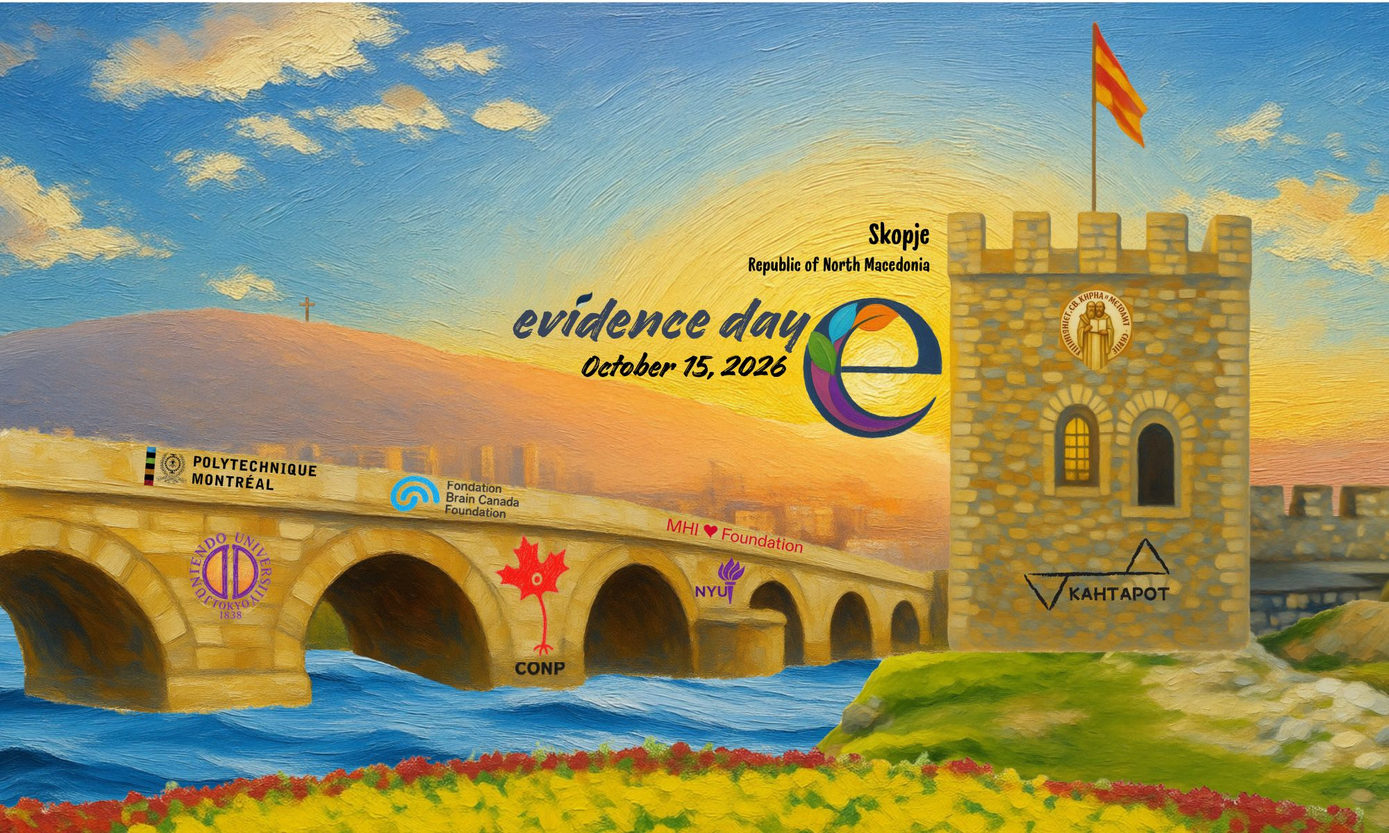
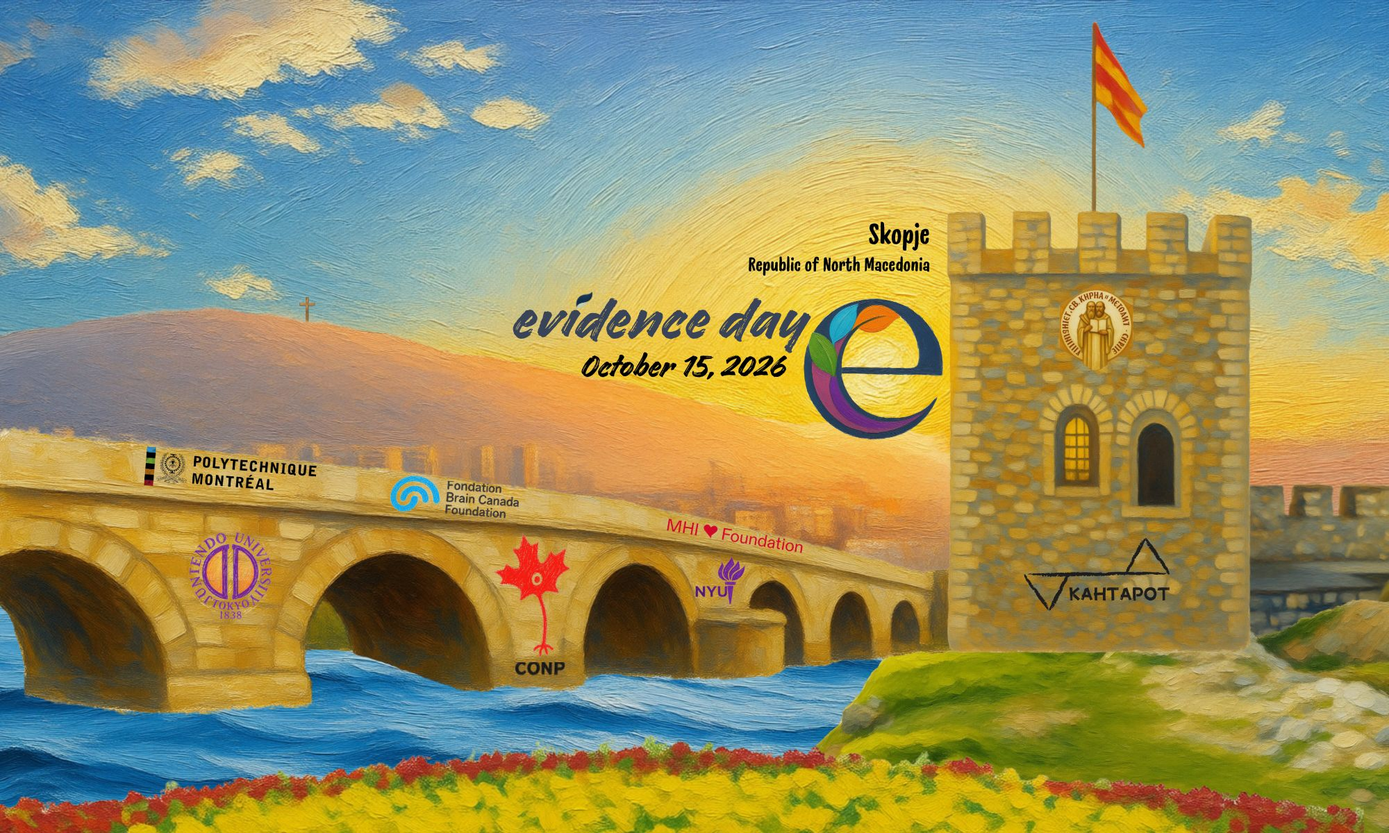
Update

diff --git a/stylesheets/css/base.css b/stylesheets/css/base.css
@@ -365,7 +365,7 @@ span.lineno {
 .gd { color: #f92672; } /* Generic.Deleted & Diff Deleted */
 .gi { color: #a6e22e; } /* Generic.Inserted & Diff Inserted */
 
-#intro{background-image: url("https://github.com/qantarot/skopje2026/blob/master/img/eviday2.jpg?raw=true") !important;
+#intro{background-image: url("https://github.com/evidencepub/skopje2026/blob/master/img/eviday2.jpg?raw=true") !important;
 	background-size: cover;
 	background-position: center;
 	height: 100vh;
